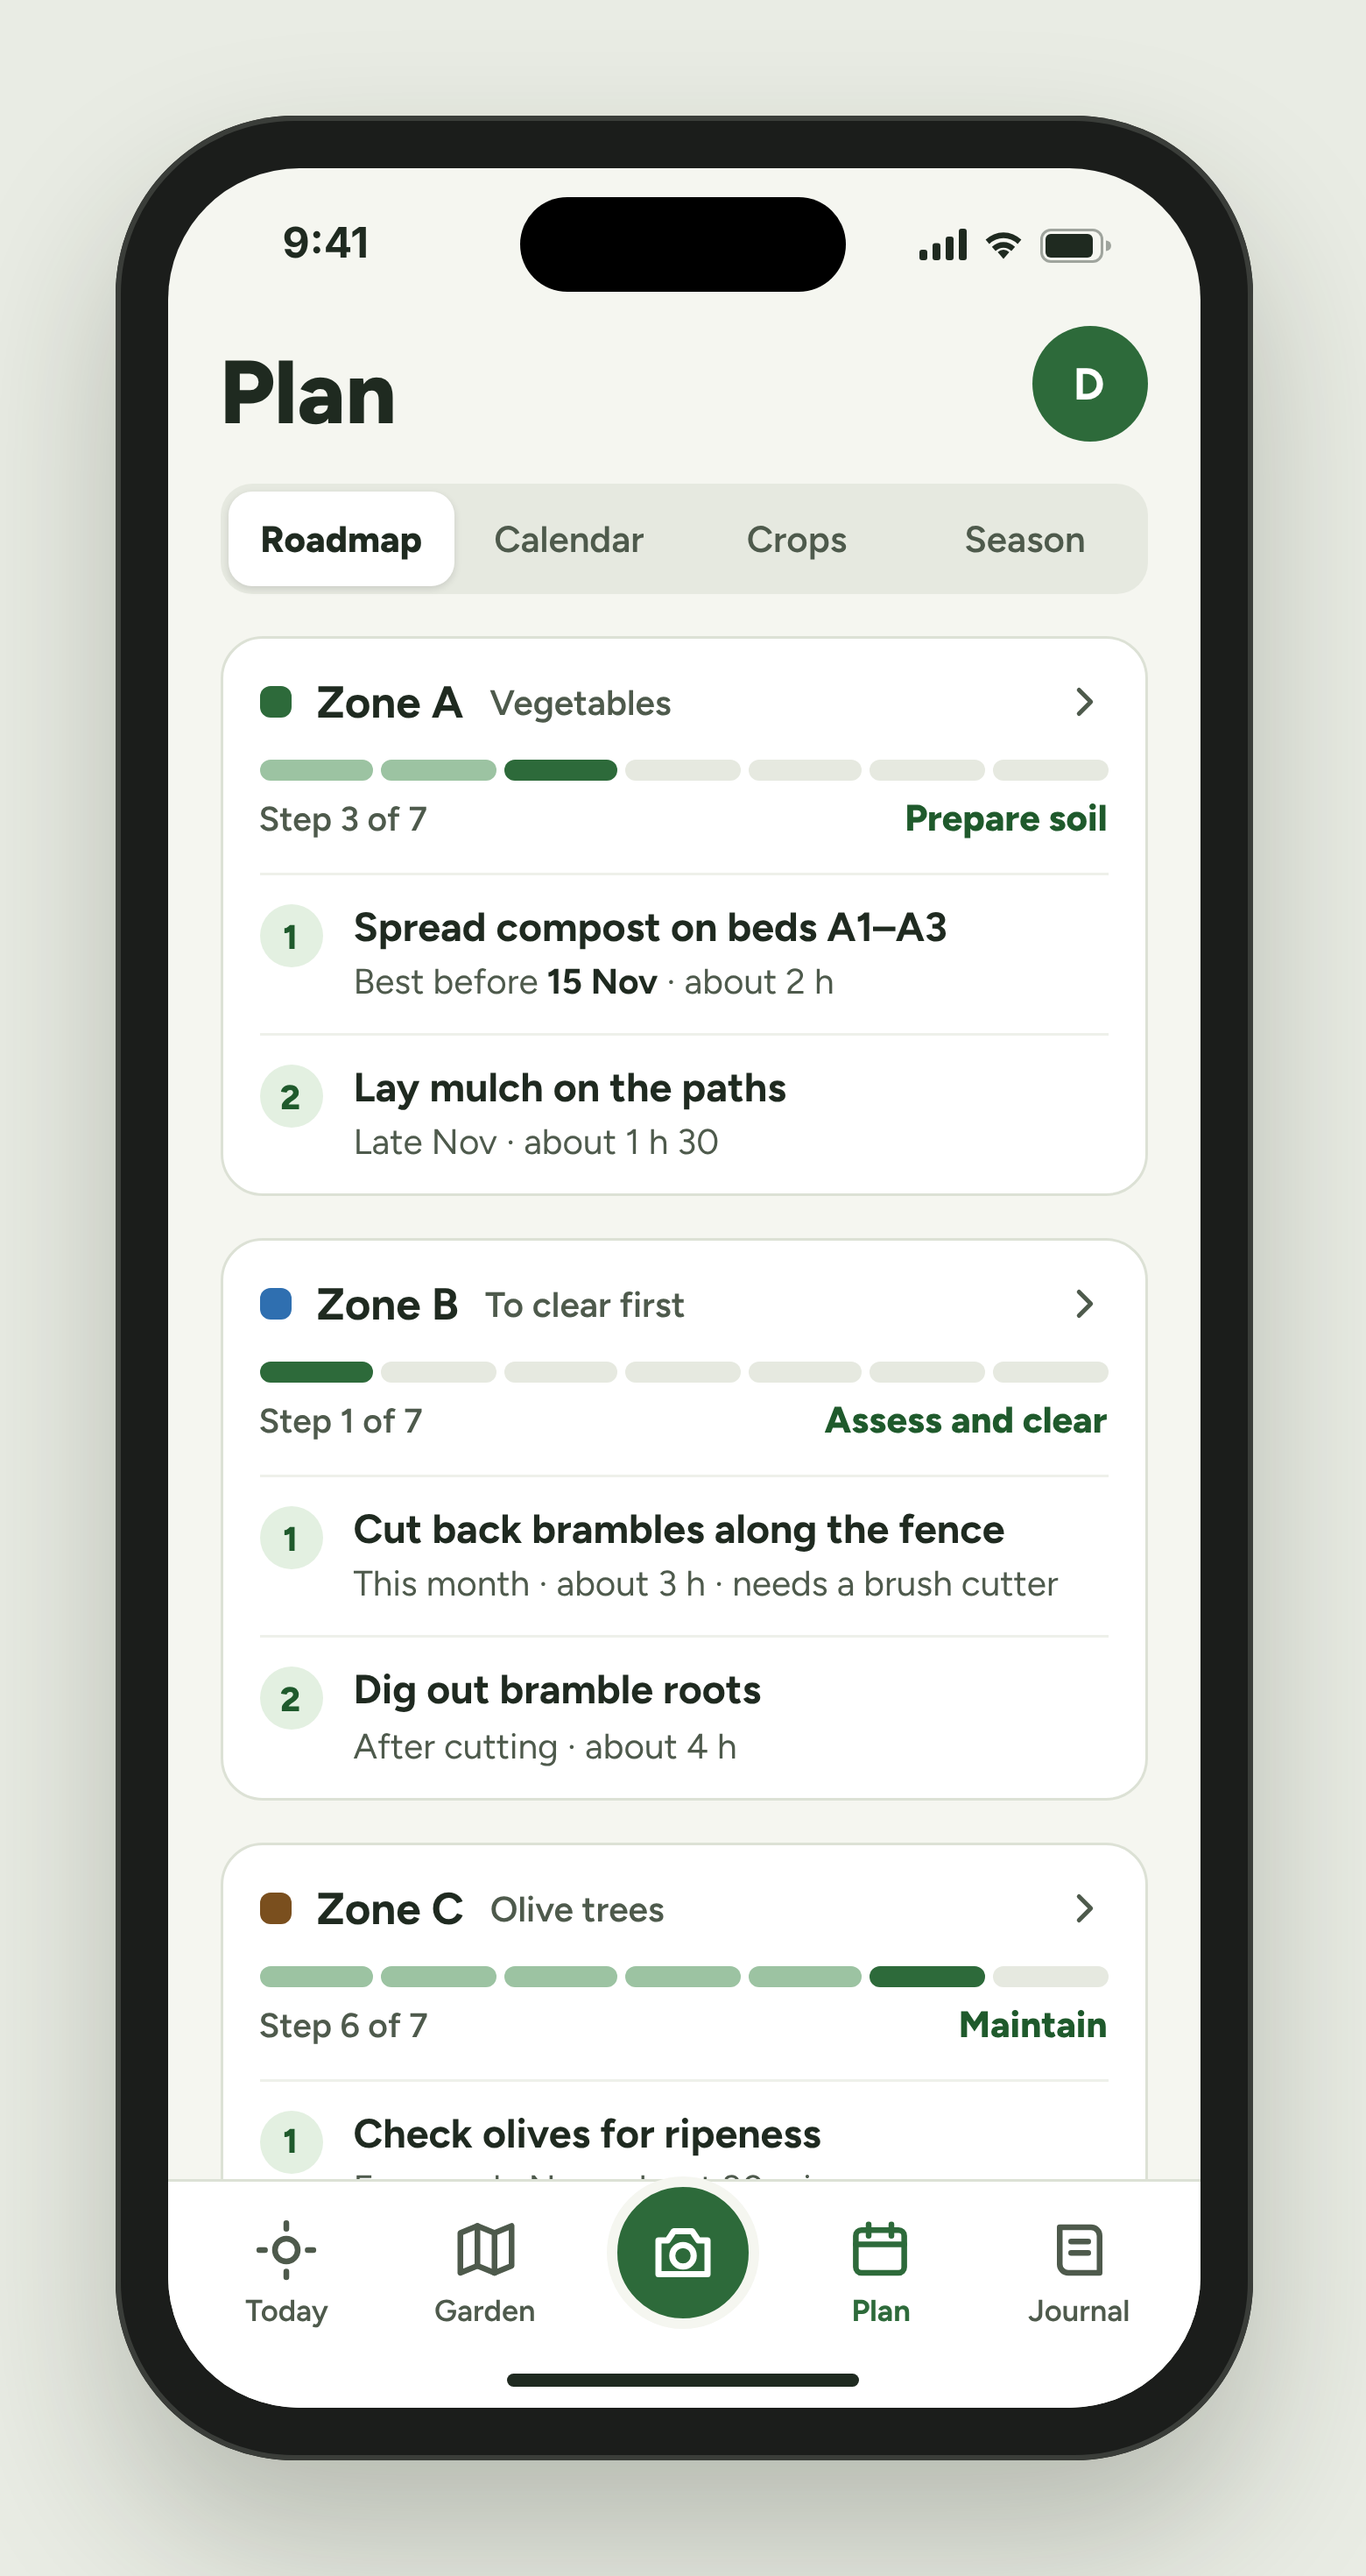
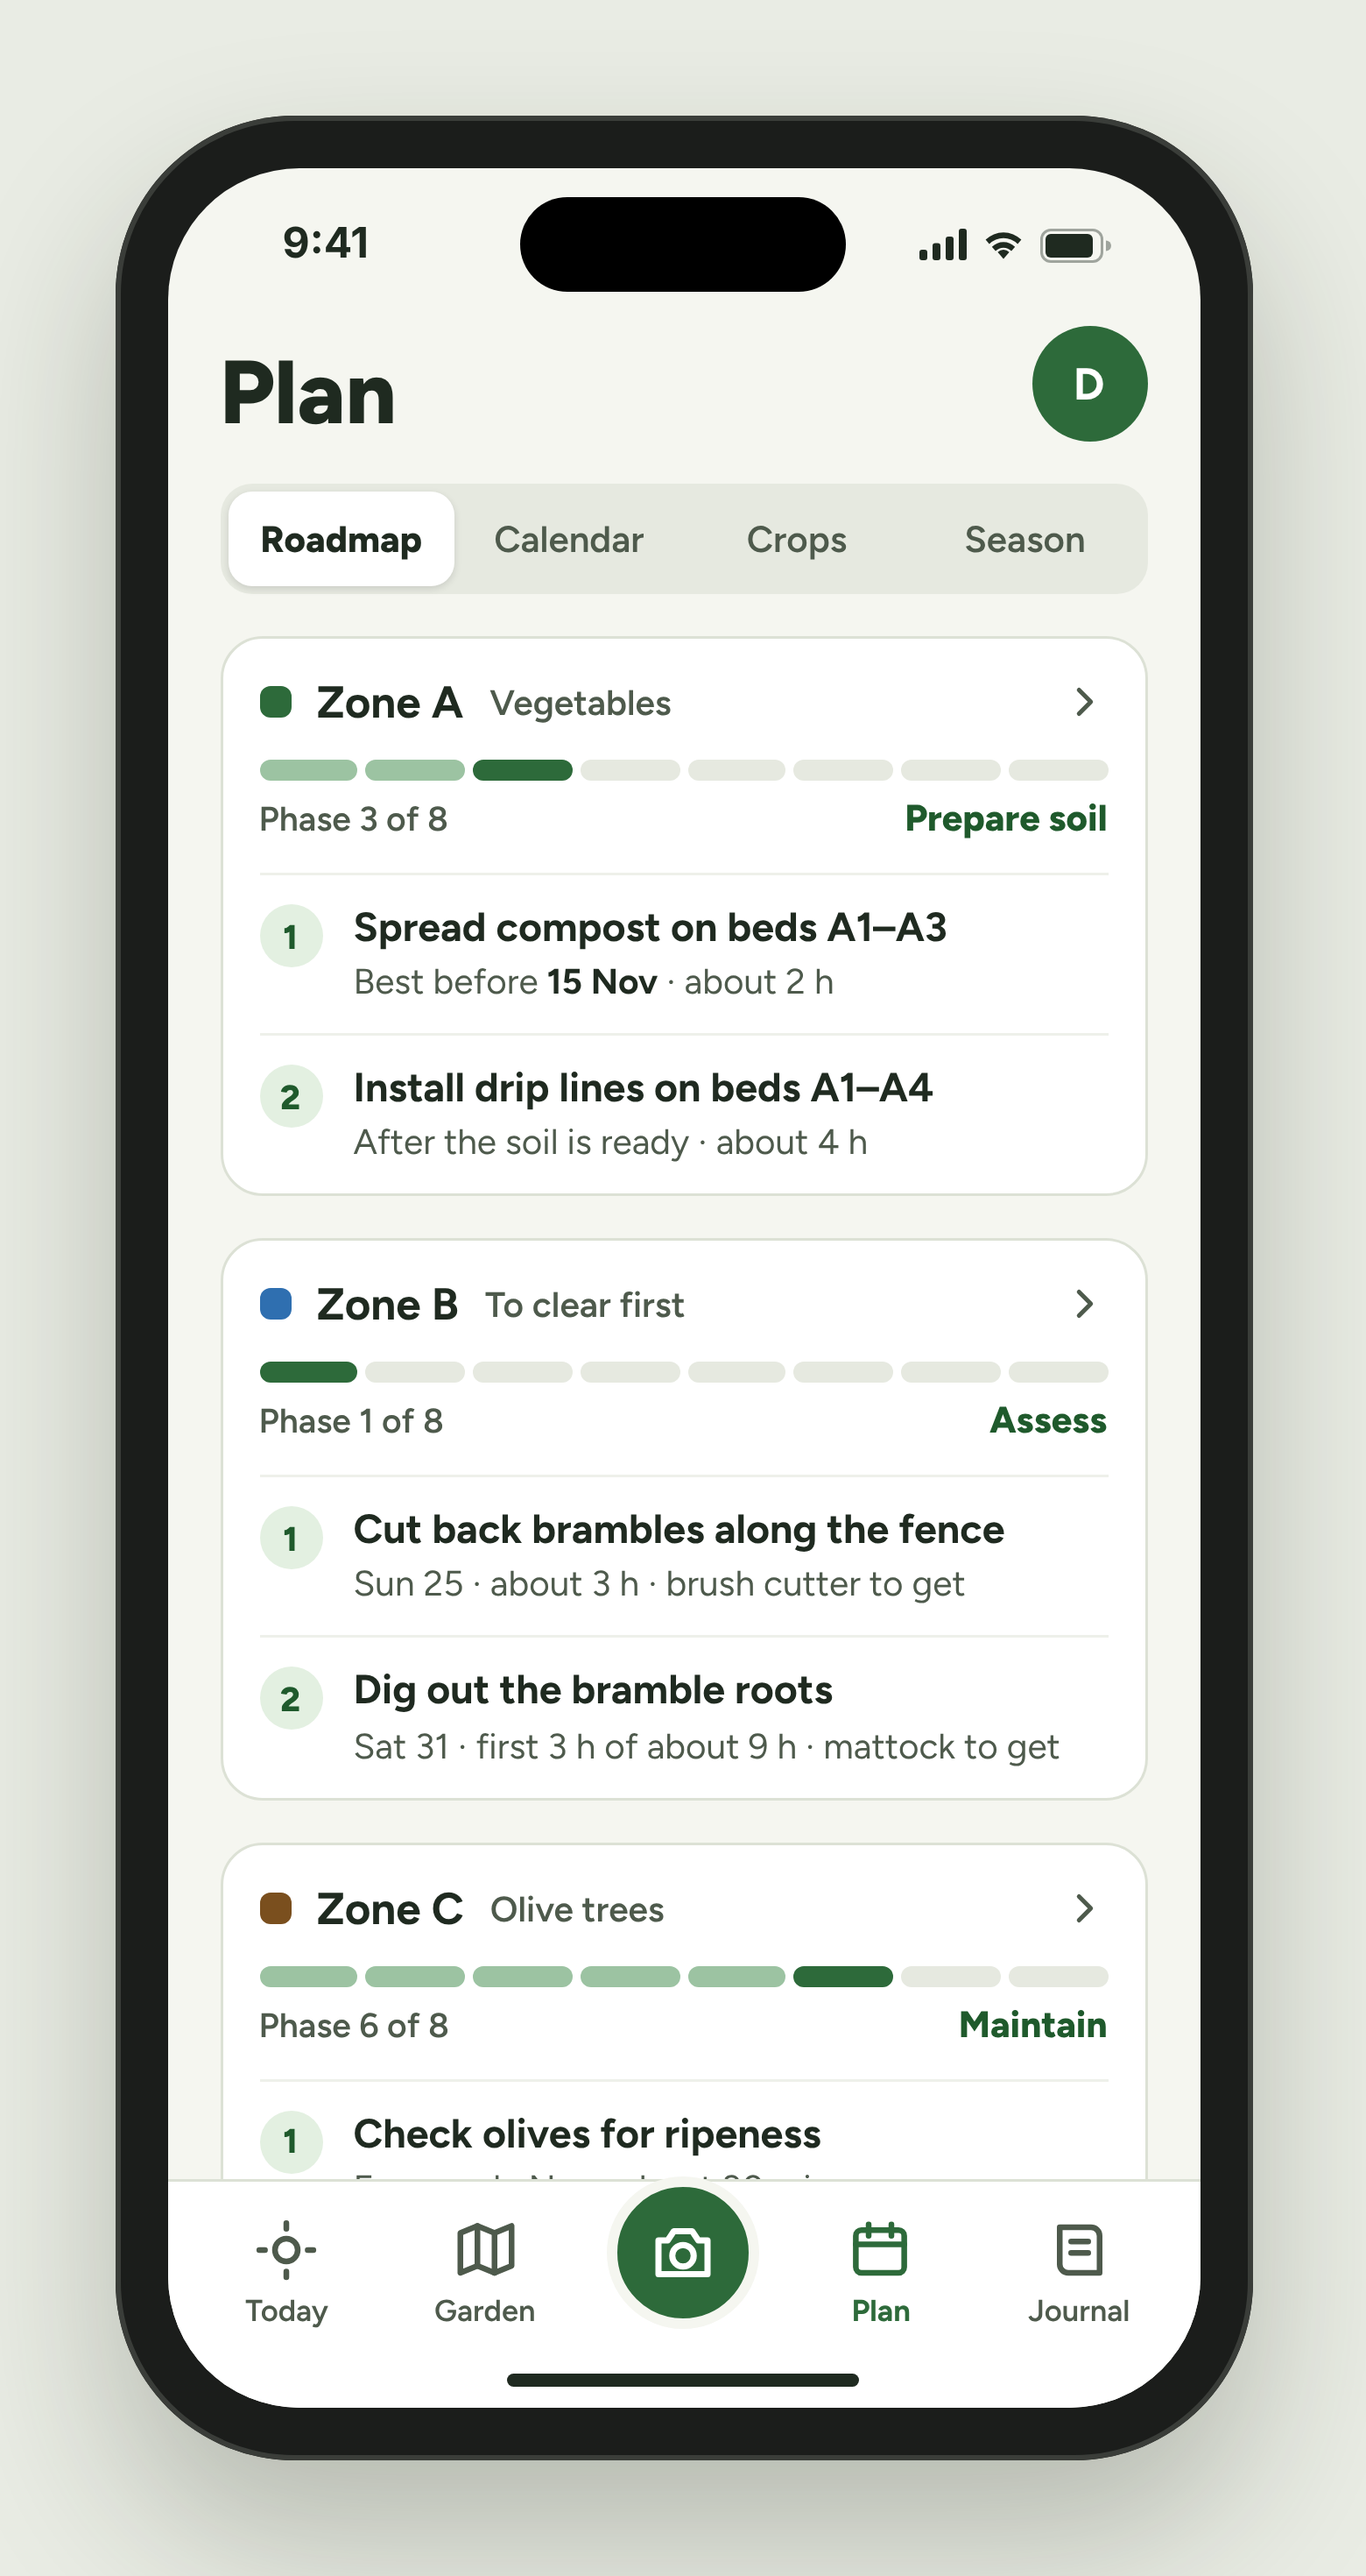
Design E1 roadmap: 8 phases, actions match C2, B4 and C5
Claude-Session: https://claude.ai/code/session_015NynAjU4naPZwzmeuGazot

diff --git a/design/source/E1-roadmap-full.html b/design/source/E1-roadmap-full.html
@@ -1,0 +1,97 @@
+<!doctype html>
+<html lang="en">
+<head>
+<meta charset="utf-8">
+<title>E1 Roadmap</title>
+<link href="https://fonts.googleapis.com/css2?family=Figtree:wght@400;500;600;700;800&display=swap" rel="stylesheet">
+<link rel="stylesheet" href="frame.css">
+<style>
+  .content { flex: 1; padding: 6px 20px 120px; display: flex; flex-direction: column; gap: 16px; overflow: hidden; }
+  .head { display: flex; justify-content: space-between; align-items: flex-end; }
+  .head h1 { margin: 0; font-size: 34px; font-weight: 800; line-height: 1.1; }
+  .avatar { width: 44px; height: 44px; border-radius: 999px; background: var(--green); color: #fff; font-size: 17px; font-weight: 700; display: flex; align-items: center; justify-content: center; }
+  .seg { display: grid; grid-template-columns: repeat(4, minmax(0, 1fr)); background: #E6E9E0; border-radius: 12px; padding: 3px; }
+  .seg span { height: 36px; display: flex; align-items: center; justify-content: center; border-radius: 9px; font-size: 14px; font-weight: 600; color: var(--muted); }
+  .seg span.on { background: #fff; color: var(--text); font-weight: 800; box-shadow: 0 1px 3px rgba(0,0,0,.12); }
+  .card { background: #fff; border: 1px solid var(--line); border-radius: 16px; padding: 14px 14px 12px; display: flex; flex-direction: column; gap: 12px; }
+  .zhead { display: flex; align-items: center; gap: 10px; }
+  .dot { width: 12px; height: 12px; border-radius: 4px; flex: none; }
+  .zhead b { font-size: 17px; }
+  .zhead .meta { font-size: 13.5px; color: var(--muted); font-weight: 600; }
+  .zhead .chev { margin-left: auto; }
+  .track { display: flex; gap: 3px; }
+  .track i { flex: 1; height: 8px; border-radius: 4px; background: #E6E9E0; }
+  .track i.done { background: #9CC3A2; }
+  .track i.now { background: var(--green); }
+  .phase { display: flex; justify-content: space-between; align-items: baseline; font-size: 13px; color: var(--muted); font-weight: 600; margin-top: -6px; }
+  .phase b { color: var(--green-ink); font-size: 14px; font-weight: 800; }
+  .act { display: flex; gap: 12px; align-items: flex-start; padding-top: 10px; border-top: 1px solid #EEF0EA; }
+  .num { width: 24px; height: 24px; border-radius: 999px; background: var(--green-soft); color: var(--green-ink); font-size: 13px; font-weight: 800; display: flex; align-items: center; justify-content: center; flex: none; margin-top: 1px; }
+  .act .t { font-size: 15.5px; font-weight: 700; line-height: 1.3; }
+  .act .w { font-size: 13.5px; color: var(--muted); margin-top: 2px; }
+  .act .w b { color: var(--text); font-weight: 700; }
+  .tabbar { position: absolute; bottom: 0; left: 0; right: 0; background: #fff; border-top: 1px solid var(--line); padding: 8px 8px 30px; display: grid; grid-template-columns: repeat(5, minmax(0, 1fr)); align-items: end; z-index: 45; }
+  .tab { color: var(--muted); display: flex; flex-direction: column; align-items: center; gap: 3px; font-size: 11.5px; font-weight: 600; min-height: 48px; justify-content: flex-end; }
+  .tab.on { color: var(--green); font-weight: 700; }
+  .cam { display: flex; justify-content: center; }
+  .cam span { width: 58px; height: 58px; border-radius: 999px; background: var(--green); display: flex; align-items: center; justify-content: center; margin-top: -22px; border: 4px solid var(--bg); }
+</style>
+<style>.stage{height:1060px}.phone{height:1000px}.screen{height:960px}</style>
+</head>
+<body>
+<div class="stage"><div class="phone"><div class="screen">
+  <div class="island"></div>
+  <div class="status">
+    <span>9:41</span>
+    <span class="icons">
+      <svg width="18" height="12" viewBox="0 0 18 12"><rect x="0" y="8" width="3" height="4" rx="1" fill="#1F2A20"/><rect x="5" y="5.5" width="3" height="6.5" rx="1" fill="#1F2A20"/><rect x="10" y="3" width="3" height="9" rx="1" fill="#1F2A20"/><rect x="15" y="0" width="3" height="12" rx="1" fill="#1F2A20"/></svg>
+      <svg width="16" height="12" viewBox="0 0 16 12"><path d="M8 11.5l2.2-2.6a3.2 3.2 0 0 0-4.4 0z" fill="#1F2A20"/><path d="M3.6 6.9a6.3 6.3 0 0 1 8.8 0l-1.4 1.6a4.2 4.2 0 0 0-6 0z" fill="#1F2A20"/><path d="M1.2 4.2a9.7 9.7 0 0 1 13.6 0l-1.4 1.6a7.6 7.6 0 0 0-10.8 0z" fill="#1F2A20"/></svg>
+      <svg width="27" height="13" viewBox="0 0 27 13"><rect x="0.5" y="0.5" width="23" height="12" rx="3.5" fill="none" stroke="#1F2A20" opacity=".4"/><rect x="2" y="2" width="18" height="9" rx="2" fill="#1F2A20"/><path d="M25 4.5v4a2 2 0 0 0 0-4z" fill="#1F2A20" opacity=".4"/></svg>
+    </span>
+  </div>
+
+  <div class="content">
+    <div class="head">
+      <h1>Plan</h1>
+      <div class="avatar">D</div>
+    </div>
+    <div class="seg"><span class="on">Roadmap</span><span>Calendar</span><span>Crops</span><span>Season</span></div>
+
+    <div class="card">
+      <div class="zhead"><i class="dot" style="background:#2D6A3A"></i><b>Zone A</b><span class="meta">Vegetables</span>
+        <svg class="chev" width="18" height="18" viewBox="0 0 24 24" fill="none" stroke="#4E5A4C" stroke-width="2.2" stroke-linecap="round" stroke-linejoin="round"><path d="M9 6l6 6-6 6"/></svg></div>
+      <div class="track"><i class="done"></i><i class="done"></i><i class="now"></i><i></i><i></i><i></i><i></i><i></i></div>
+      <div class="phase"><span>Phase 3 of 8</span><b>Prepare soil</b></div>
+      <div class="act"><span class="num">1</span><div><div class="t">Spread compost on beds A1–A3</div><div class="w">Best before <b>15 Nov</b> · about 2 h</div></div></div>
+      <div class="act"><span class="num">2</span><div><div class="t">Install drip lines on beds A1–A4</div><div class="w">After the soil is ready · about 4 h</div></div></div>
+    </div>
+
+    <div class="card">
+      <div class="zhead"><i class="dot" style="background:#2F6FB0"></i><b>Zone B</b><span class="meta">To clear first</span>
+        <svg class="chev" width="18" height="18" viewBox="0 0 24 24" fill="none" stroke="#4E5A4C" stroke-width="2.2" stroke-linecap="round" stroke-linejoin="round"><path d="M9 6l6 6-6 6"/></svg></div>
+      <div class="track"><i class="now"></i><i></i><i></i><i></i><i></i><i></i><i></i><i></i></div>
+      <div class="phase"><span>Phase 1 of 8</span><b>Assess</b></div>
+      <div class="act"><span class="num">1</span><div><div class="t">Cut back brambles along the fence</div><div class="w">Sun 25 · about 3 h · brush cutter to get</div></div></div>
+      <div class="act"><span class="num">2</span><div><div class="t">Dig out the bramble roots</div><div class="w">Sat 31 · first 3 h of about 9 h · mattock to get</div></div></div>
+    </div>
+
+    <div class="card">
+      <div class="zhead"><i class="dot" style="background:#7A4F1E"></i><b>Zone C</b><span class="meta">Olive trees</span>
+        <svg class="chev" width="18" height="18" viewBox="0 0 24 24" fill="none" stroke="#4E5A4C" stroke-width="2.2" stroke-linecap="round" stroke-linejoin="round"><path d="M9 6l6 6-6 6"/></svg></div>
+      <div class="track"><i class="done"></i><i class="done"></i><i class="done"></i><i class="done"></i><i class="done"></i><i class="now"></i><i></i><i></i></div>
+      <div class="phase"><span>Phase 6 of 8</span><b>Maintain</b></div>
+      <div class="act"><span class="num">1</span><div><div class="t">Check olives for ripeness</div><div class="w">From early Nov · about 30 min</div></div></div>
+    </div>
+  </div>
+
+  <nav class="tabbar">
+    <div class="tab"><svg width="26" height="26" viewBox="0 0 24 24" fill="none" stroke="currentColor" stroke-width="2" stroke-linecap="round" stroke-linejoin="round"><circle cx="12" cy="12" r="4"/><path d="M12 2.5v2M12 19.5v2M2.5 12h2M19.5 12h2"/></svg>Today</div>
+    <div class="tab"><svg width="26" height="26" viewBox="0 0 24 24" fill="none" stroke="currentColor" stroke-width="2" stroke-linecap="round" stroke-linejoin="round"><path d="M3 6l6-2.5 6 2.5 6-2.5v14l-6 2.5-6-2.5-6 2.5z"/><path d="M9 3.5v14M15 6v14"/></svg>Garden</div>
+    <div class="cam"><span><svg width="28" height="28" viewBox="0 0 24 24" fill="none" stroke="#FFFFFF" stroke-width="2" stroke-linecap="round" stroke-linejoin="round"><path d="M4 8h3l2-3h6l2 3h3v11H4z"/><circle cx="12" cy="13" r="3.5"/></svg></span></div>
+    <div class="tab on"><svg width="26" height="26" viewBox="0 0 24 24" fill="none" stroke="currentColor" stroke-width="2" stroke-linecap="round" stroke-linejoin="round"><rect x="3.5" y="5" width="17" height="15" rx="2"/><path d="M3.5 10h17M8 3v4M16 3v4"/></svg>Plan</div>
+    <div class="tab"><svg width="26" height="26" viewBox="0 0 24 24" fill="none" stroke="currentColor" stroke-width="2" stroke-linecap="round" stroke-linejoin="round"><path d="M5 4h11a3 3 0 0 1 3 3v13H8a3 3 0 0 1-3-3z"/><path d="M9 9h6M9 13h6"/></svg>Journal</div>
+  </nav>
+  <div class="home"></div>
+</div></div></div>
+</body>
+</html>

diff --git a/design/source/E1-roadmap.html b/design/source/E1-roadmap.html
@@ -59,26 +59,26 @@
     <div class="card">
       <div class="zhead"><i class="dot" style="background:#2D6A3A"></i><b>Zone A</b><span class="meta">Vegetables</span>
         <svg class="chev" width="18" height="18" viewBox="0 0 24 24" fill="none" stroke="#4E5A4C" stroke-width="2.2" stroke-linecap="round" stroke-linejoin="round"><path d="M9 6l6 6-6 6"/></svg></div>
-      <div class="track"><i class="done"></i><i class="done"></i><i class="now"></i><i></i><i></i><i></i><i></i></div>
-      <div class="phase"><span>Step 3 of 7</span><b>Prepare soil</b></div>
+      <div class="track"><i class="done"></i><i class="done"></i><i class="now"></i><i></i><i></i><i></i><i></i><i></i></div>
+      <div class="phase"><span>Phase 3 of 8</span><b>Prepare soil</b></div>
       <div class="act"><span class="num">1</span><div><div class="t">Spread compost on beds A1–A3</div><div class="w">Best before <b>15 Nov</b> · about 2 h</div></div></div>
-      <div class="act"><span class="num">2</span><div><div class="t">Lay mulch on the paths</div><div class="w">Late Nov · about 1 h 30</div></div></div>
+      <div class="act"><span class="num">2</span><div><div class="t">Install drip lines on beds A1–A4</div><div class="w">After the soil is ready · about 4 h</div></div></div>
     </div>
 
     <div class="card">
       <div class="zhead"><i class="dot" style="background:#2F6FB0"></i><b>Zone B</b><span class="meta">To clear first</span>
         <svg class="chev" width="18" height="18" viewBox="0 0 24 24" fill="none" stroke="#4E5A4C" stroke-width="2.2" stroke-linecap="round" stroke-linejoin="round"><path d="M9 6l6 6-6 6"/></svg></div>
-      <div class="track"><i class="now"></i><i></i><i></i><i></i><i></i><i></i><i></i></div>
-      <div class="phase"><span>Step 1 of 7</span><b>Assess and clear</b></div>
-      <div class="act"><span class="num">1</span><div><div class="t">Cut back brambles along the fence</div><div class="w">This month · about 3 h · needs a brush cutter</div></div></div>
-      <div class="act"><span class="num">2</span><div><div class="t">Dig out bramble roots</div><div class="w">After cutting · about 4 h</div></div></div>
+      <div class="track"><i class="now"></i><i></i><i></i><i></i><i></i><i></i><i></i><i></i></div>
+      <div class="phase"><span>Phase 1 of 8</span><b>Assess</b></div>
+      <div class="act"><span class="num">1</span><div><div class="t">Cut back brambles along the fence</div><div class="w">Sun 25 · about 3 h · brush cutter to get</div></div></div>
+      <div class="act"><span class="num">2</span><div><div class="t">Dig out the bramble roots</div><div class="w">Sat 31 · first 3 h of about 9 h · mattock to get</div></div></div>
     </div>
 
     <div class="card">
       <div class="zhead"><i class="dot" style="background:#7A4F1E"></i><b>Zone C</b><span class="meta">Olive trees</span>
         <svg class="chev" width="18" height="18" viewBox="0 0 24 24" fill="none" stroke="#4E5A4C" stroke-width="2.2" stroke-linecap="round" stroke-linejoin="round"><path d="M9 6l6 6-6 6"/></svg></div>
-      <div class="track"><i class="done"></i><i class="done"></i><i class="done"></i><i class="done"></i><i class="done"></i><i class="now"></i><i></i></div>
-      <div class="phase"><span>Step 6 of 7</span><b>Maintain</b></div>
+      <div class="track"><i class="done"></i><i class="done"></i><i class="done"></i><i class="done"></i><i class="done"></i><i class="now"></i><i></i><i></i></div>
+      <div class="phase"><span>Phase 6 of 8</span><b>Maintain</b></div>
       <div class="act"><span class="num">1</span><div><div class="t">Check olives for ripeness</div><div class="w">From early Nov · about 30 min</div></div></div>
     </div>
   </div>
